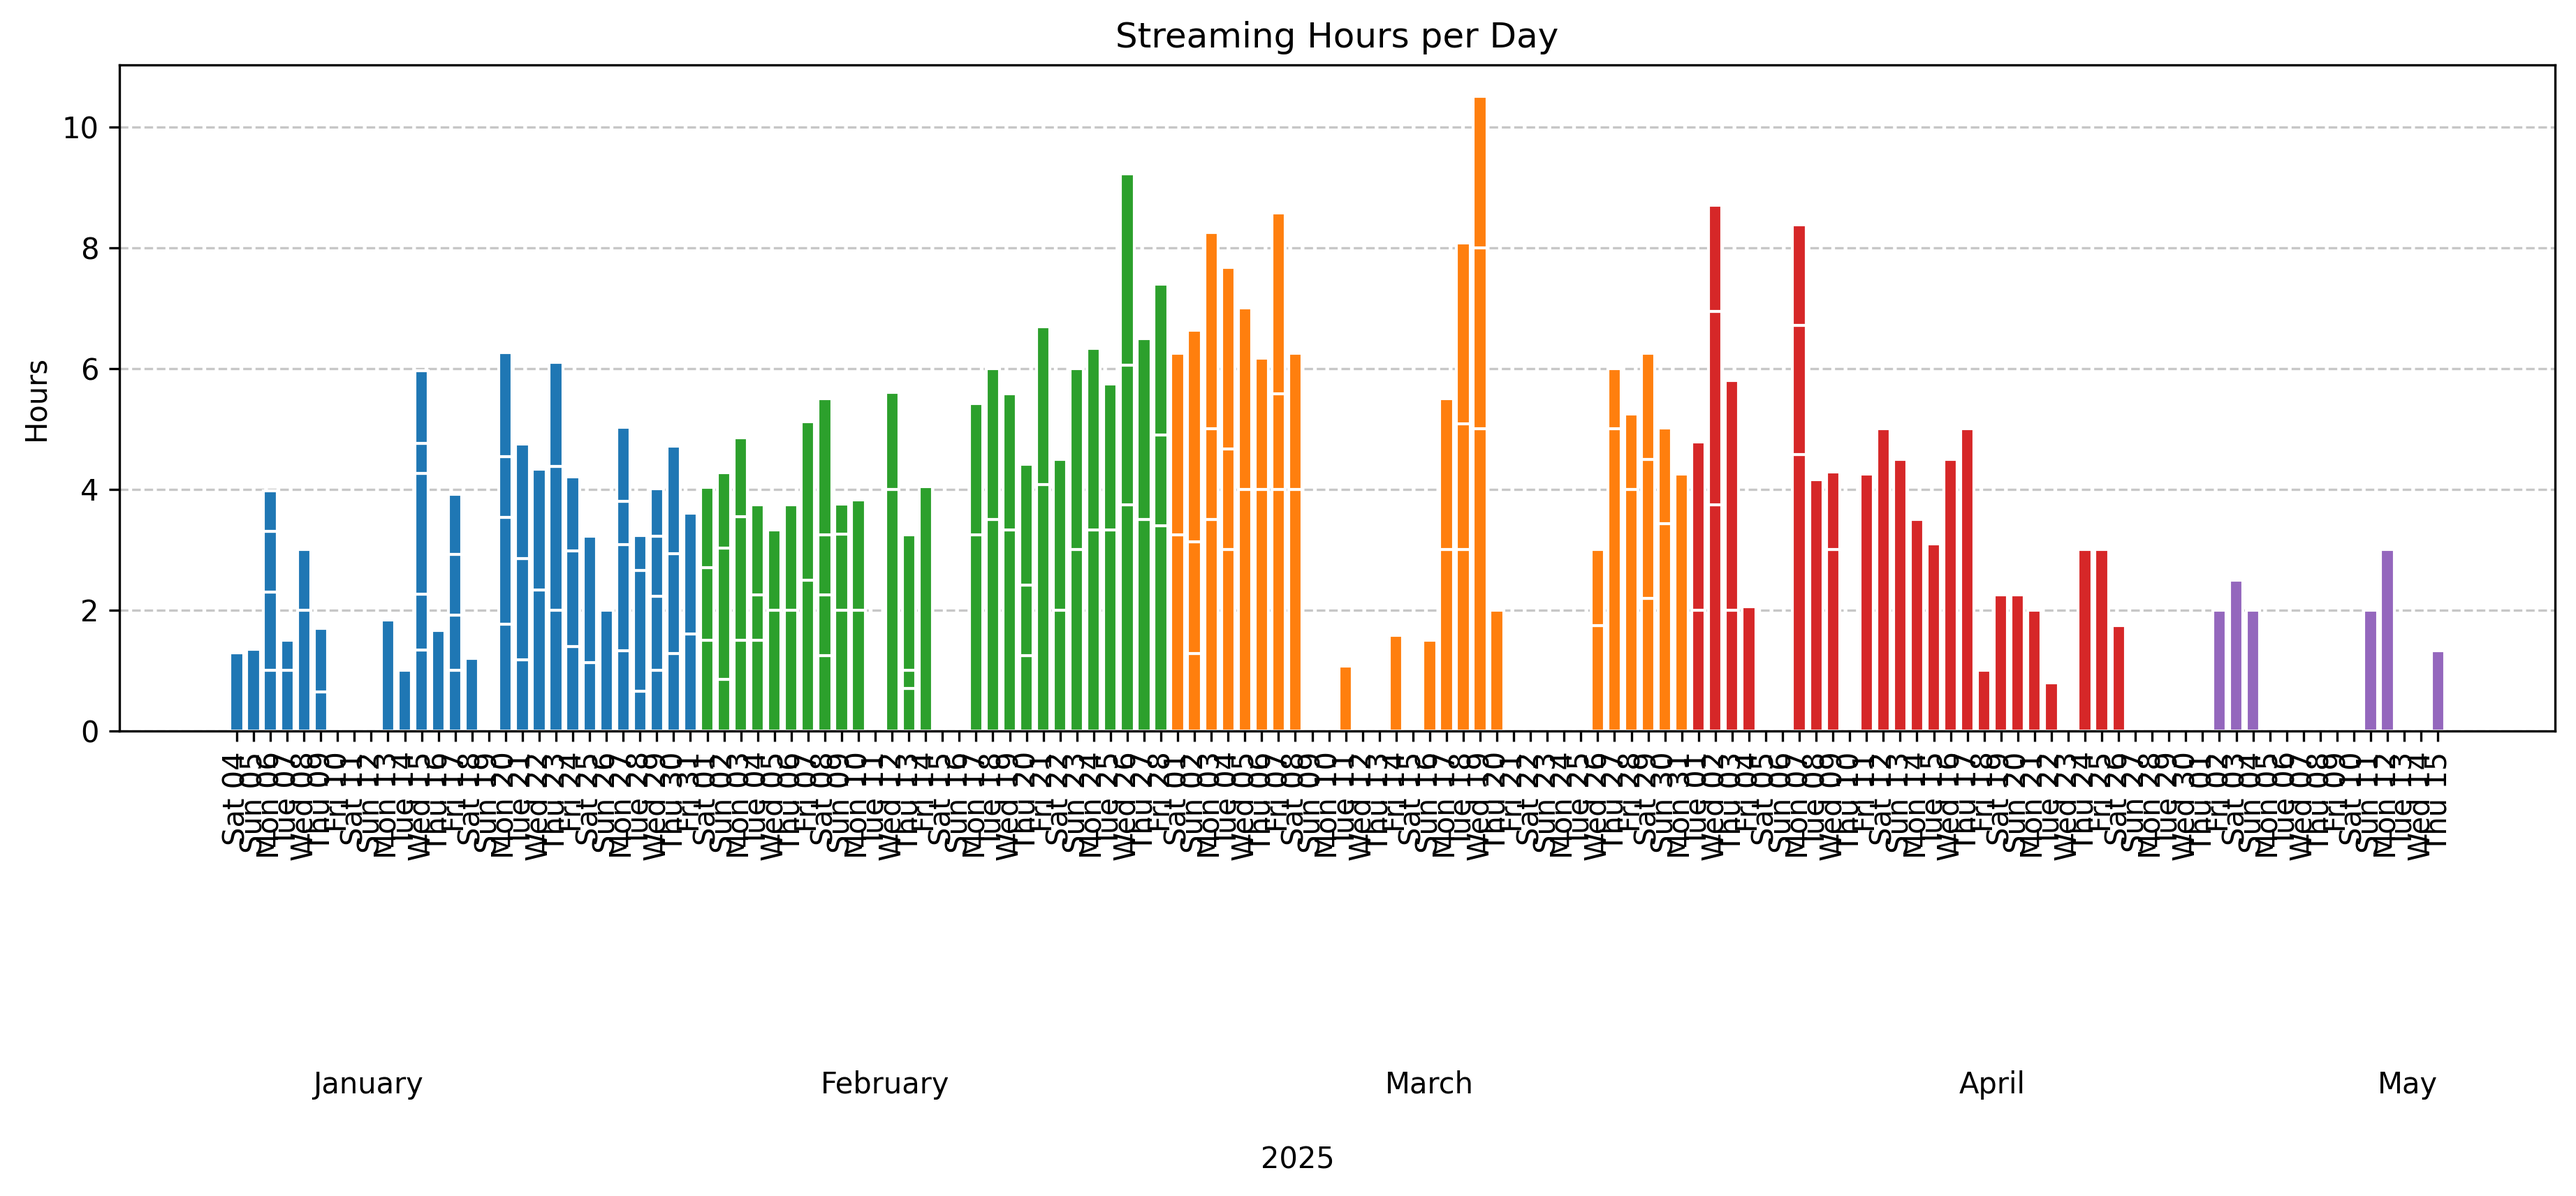
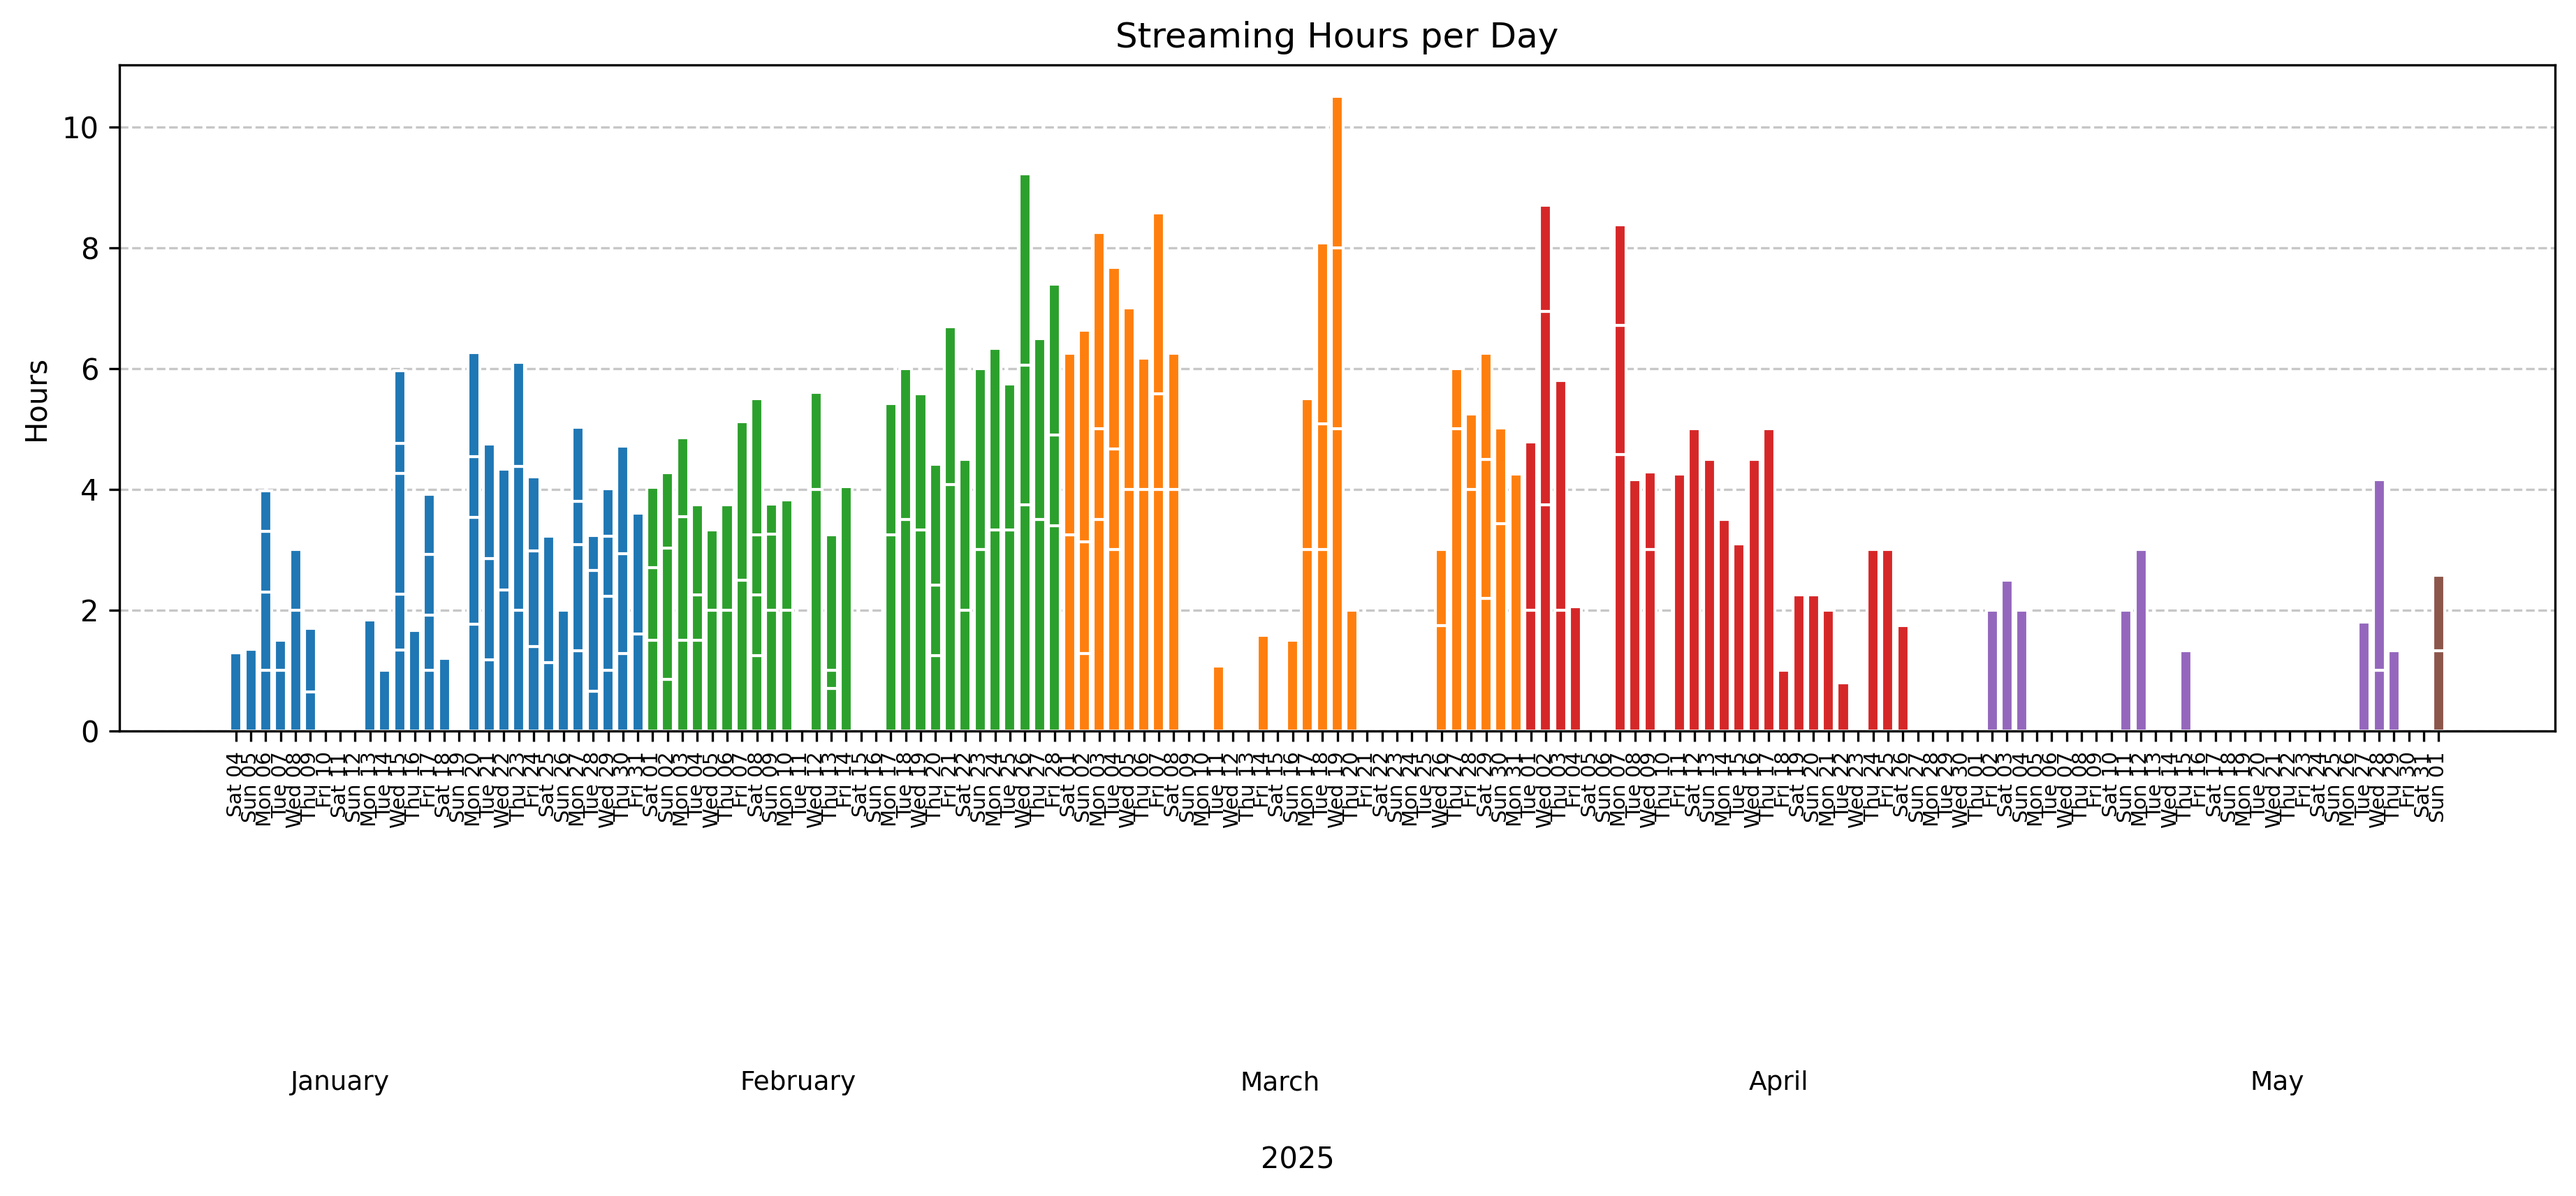
progress

diff --git a/analyze_commits.py b/analyze_commits.py
@@ -184,7 +184,7 @@ for i, date in enumerate(complete_dates):
 # Configure x-axis with dates only
 ax = plt.gca()
 ax.set_xticks(range(len(complete_dates)))
-ax.set_xticklabels(date_labels, rotation=90, ha='center')  # Changed rotation to 90 and ha to center
+ax.set_xticklabels(date_labels, rotation=90, ha='center', fontsize=7)  # Added fontsize=8
 
 # Find the indices for first and last day of each month
 current_month = datetime.strptime(complete_dates[0], '%Y-%m-%d').month
@@ -198,15 +198,15 @@ for i, date in enumerate(complete_dates):
         month_center = (month_start_idx + (i - 1 if dt.month != current_month else i)) / 2
         month_name = datetime(year, current_month, 1).strftime('%B')
         plt.figtext(ax.get_position().x0 + (month_center / len(complete_dates)) * ax.get_position().width,
-                   0.08, month_name, ha='center', va='top')
+                   0.08, month_name, ha='center', va='top', fontsize=9)  # Added fontsize=9
         
         # Update for next month
         current_month = dt.month
         month_start_idx = i
         year = dt.year
 
-# Add year label at bottom
-plt.figtext(0.5, 0.02, year, ha='center', va='top')
+# Add year label at bottom with reduced font size
+plt.figtext(0.5, 0.02, year, ha='center', va='top', fontsize=10)  # Added fontsize=10
 
 plt.title('Streaming Hours per Day')
 plt.xlabel('')
